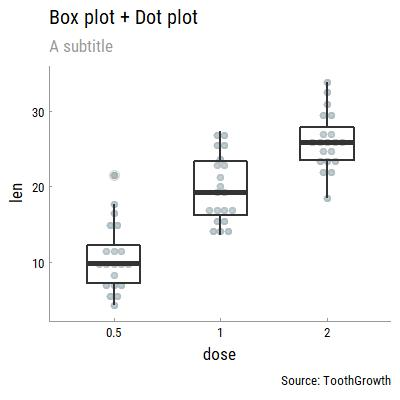
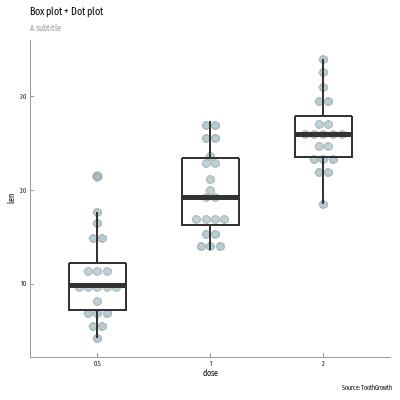
replace extrafond with showtext package version bump

diff --git a/README.md b/README.md
@@ -9,8 +9,8 @@ Installation of R and the font "Roboto Condensed", which you get here https://fo
 library(devtools) #maybe install.packages('devtools')
 install_github("janajarecki/themejj", force=TRUE)
 # If this throws errors: You need these two packages
-# install.packages(extrafont)
-# install.packages(ggplot)
+# install.packages(showtext)
+# install.packages(ggplot2)
 ```
 ## How plots look like
 <img src="/img/boxplot.jpg" width="30%" alt="Boxplot"> <img src="/img/lineplot.png" width="30%" alt="Lineplot"> <img src="/img/densityplot.png" width="30%" alt="Densityplot"> <br>
